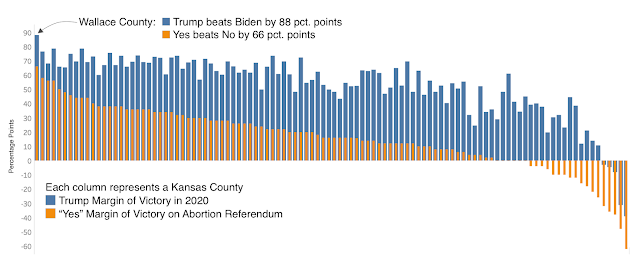
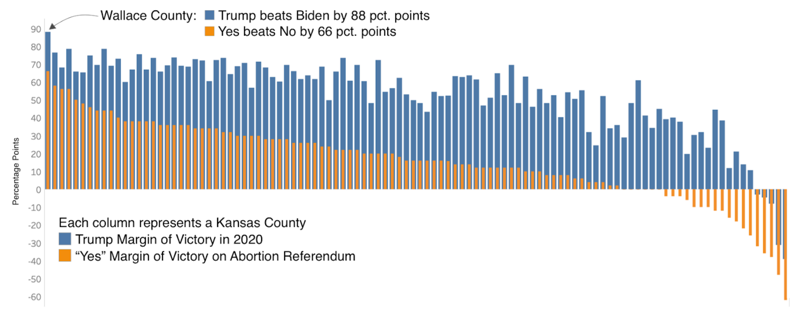
misc

diff --git a/kansasReferendum/kansas.html b/kansasReferendum/kansas.html
@@ -54,8 +54,8 @@
         </div>
         <div class="pointcontainer">
             <div class="pointimage" id="imagetitle">
-                <div>Average Senate Election Winner Margin: 1976-2002</div>
-                <img src="./chart1.png" width="375px">
+                <div>Performance Comparison: 2020 Trump vs. 2022 Abortion Referendum</div>
+                <img class="varimage" width="100%" src="./chart1.png">
             </div>
        </div>
 

diff --git a/kansasReferendum/kansas_analysis.css b/kansasReferendum/kansas_analysis.css
@@ -11,7 +11,7 @@
 #container{
     margin-left: 20px;
     margin-top: 100px;
-    max-width: 800px;
+    max-width: 850px;
     margin: auto; 
 }
 
@@ -54,6 +54,7 @@
     flex-wrap: wrap;
     margin-top: 20px;
     align-items: t;
+    justify-content: left;
     flex: 1;
 }
 
@@ -64,7 +65,9 @@
 }
 
 .pointimage{
-    max-width: 800px;
+    max-width: 100%;
+    height: auto;
+    justify-content: center;
 }
 
 #imagetitle{
